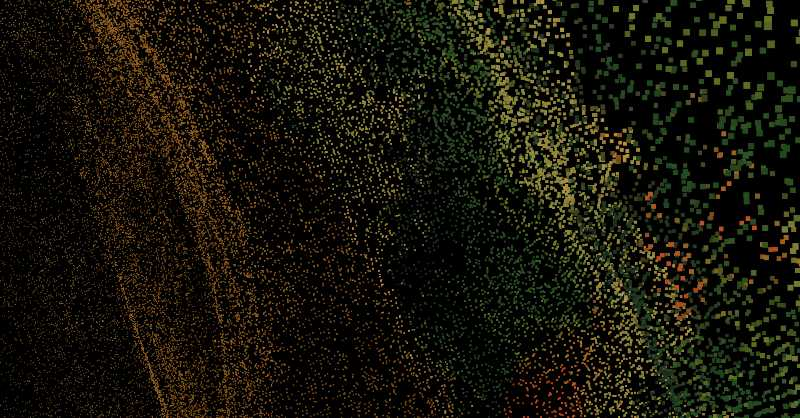
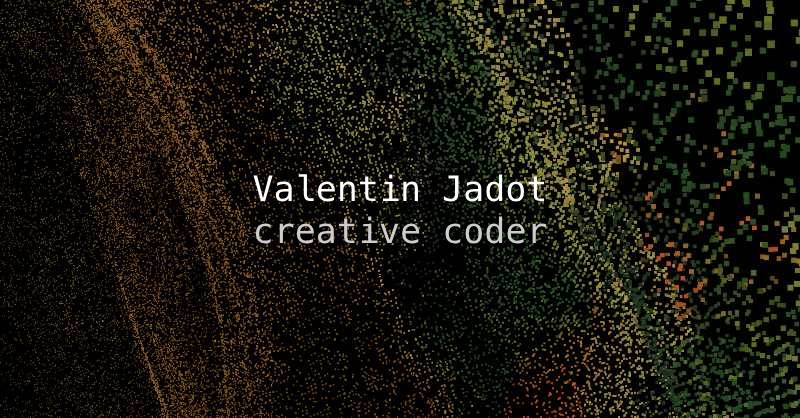
feat(og-image+seed): improve text

Changed region(s): [[0.3125, 0.5287, 0.6875, 0.5909], [0.3125, 0.4043, 0.5312, 0.4976], [0.5625, 0.4043, 0.6875, 0.4976]]

diff --git a/SEED.md b/SEED.md
@@ -10,6 +10,10 @@ Valentin holds a Master of Laws (magna cum laude) and a Master in Economics (mag
 
 As a freelancer specializing in creative development, Valentin's career includes roles at Nagelmackers, Financial Services and Market Authority, and Fintual, a Y Combinator fintech startup and one of the top startups of Latin America.
 
+He started coding a 14 years old and got his first missions at 15.
+
+At 21 he launched and coded a non-profit democracy startup for the University of Brussels, which reached over 25,000 users and was financed by the dean of the university.
+
 At Nagelmackers, he served as a Consultant for the General Management Office, contributing to the digital agenda and the establishment of a bank division in Hong Kong.
 
 Later, at the Financial Services and Market Authority, Valentin worked as an Attaché, developing a risk model for prioritizing credit company controls.
